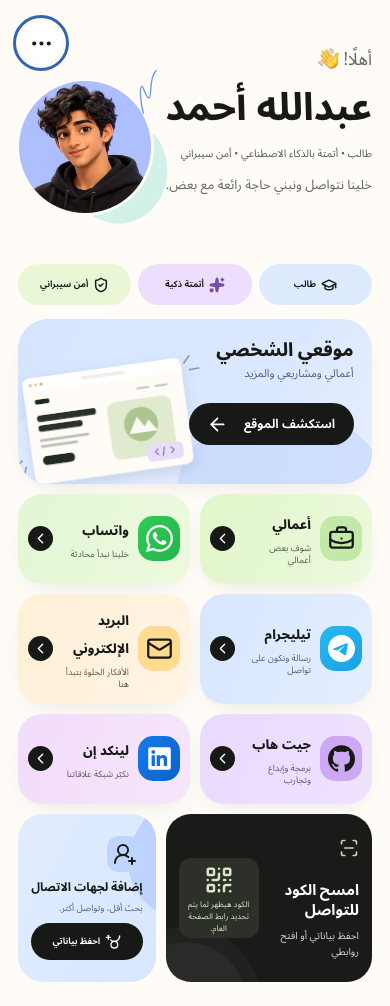
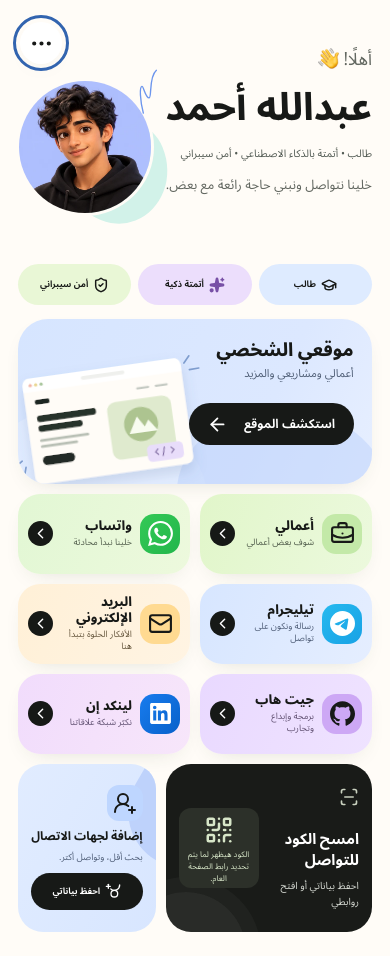
Update Site source

diff --git a/app/globals.css b/app/globals.css
@@ -1082,29 +1082,34 @@ a svg {
     gap: 10px;
   }
   .contact-card {
-    min-height: 90px;
-    padding: 13px 10px;
-    gap: 9px;
-    border-radius: 24px;
+    min-height: 80px;
+    padding: 10px;
+    gap: 8px;
+    border-radius: 22px;
   }
   .contact-icon {
-    width: 42px;
-    height: 45px;
-    border-radius: 15px;
+    width: 40px;
+    height: 40px;
+    border-radius: 14px;
   }
   .contact-icon svg {
-    width: 27px;
-    height: 27px;
+    width: 25px;
+    height: 25px;
   }
   .contact-title {
-    font-size: 14px;
+    font-size: clamp(11px, 3.2vw, 13px);
+    line-height: 1.25;
   }
   .contact-subtitle {
     font-size: 10px;
     line-height: 1.35;
+    display: -webkit-box;
+    -webkit-box-orient: vertical;
+    -webkit-line-clamp: 2;
+    overflow: hidden;
   }
   .contact-copy {
-    gap: 4px;
+    gap: 3px;
   }
   .arrow-circle {
     width: 25px;
@@ -1291,13 +1296,12 @@ a svg {
     height: 14px;
   }
   .contact-card {
-    padding: 12px 9px;
+    padding: 10px 8px;
     gap: 7px;
-    min-height: 85px;
   }
   .contact-icon {
     width: 34px;
-    height: 39px;
+    height: 36px;
     border-radius: 12px;
   }
   .contact-icon svg {
@@ -1305,7 +1309,7 @@ a svg {
     height: 23px;
   }
   .contact-title {
-    font-size: 12px;
+    font-size: 11px;
   }
   .contact-subtitle {
     font-size: 9px;

diff --git a/DESIGN.md b/DESIGN.md
@@ -192,7 +192,7 @@ Quick-message chips wrap within the composer. They use a fine pale border and tr
 
 ### Cards / Containers
 
-Contact tiles have a light gradient, rounded icon block, title/subtitle stack, and dark circular directional arrow. Default minimum height is (109px), becoming (90px) on mobile and (85px) at narrow widths. The entire tile is an anchor for a configured URL or a button for a sheet action.
+Contact tiles have a light gradient, rounded icon block, title/subtitle stack, and dark circular directional arrow. Default minimum height is (109px), becoming (80px) on mobile, with 40px icon blocks (34×36px below 359px), fluid 11–13px labels, and compact 3px text gaps. Supporting copy wraps to at most two lines. The entire tile is an anchor for a configured URL or a button for a sheet action.
 
 The blue featured card follows the approved second reference: title and subtitle align at the logical start without a globe icon, the larger dark CTA sits below, and a website illustration fills the lower logical end without a floating arrow badge. It has a 210px desktop minimum height and a 2.15:1 mobile aspect ratio with fluid type and controls scaled from the card width. The preview is decorative interface imagery rather than evidence of a configured website. QR uses the dark inverse surface; add-to-contacts uses a blue gradient and a dark download action.
 

diff --git a/artifacts/verification.md b/artifacts/verification.md
@@ -21,3 +21,7 @@ Restored the featured card to exactly 210px on desktop. A focused production-bro
 ## Mobile reference proportions
 
 Adjusted mobile to the owner's lower reference: 2.15:1 card proportions, smaller fluid title and CTA, and a separate illustration at the lower end. Desktop remains exactly 210px. A production Chromium check covers both locales at 320, 390, 430, 512, 604, 768, 1024 and 1440px, asserting the requested aspect ratio / height and no overflow. Screenshots at 604px use a 568px-wide card to compare directly with the supplied mobile reference.
+
+## Compact mobile contact cards
+
+All six mobile contact tiles now measure 80px, with 40px icon blocks, compact text gaps and fluid labels. Desktop tiles remain 109px. Supporting copy is limited to two visible lines on mobile; accessible names retain the full copy. Production browser verification covers 320, 360, 390, 430, 768, 1024 and 1440px in English and Arabic, including measured tile heights, label fit, overflow and WhatsApp opening. Production build and strict TypeScript checks pass. Screenshots are in `artifacts/contact-cards/`.
